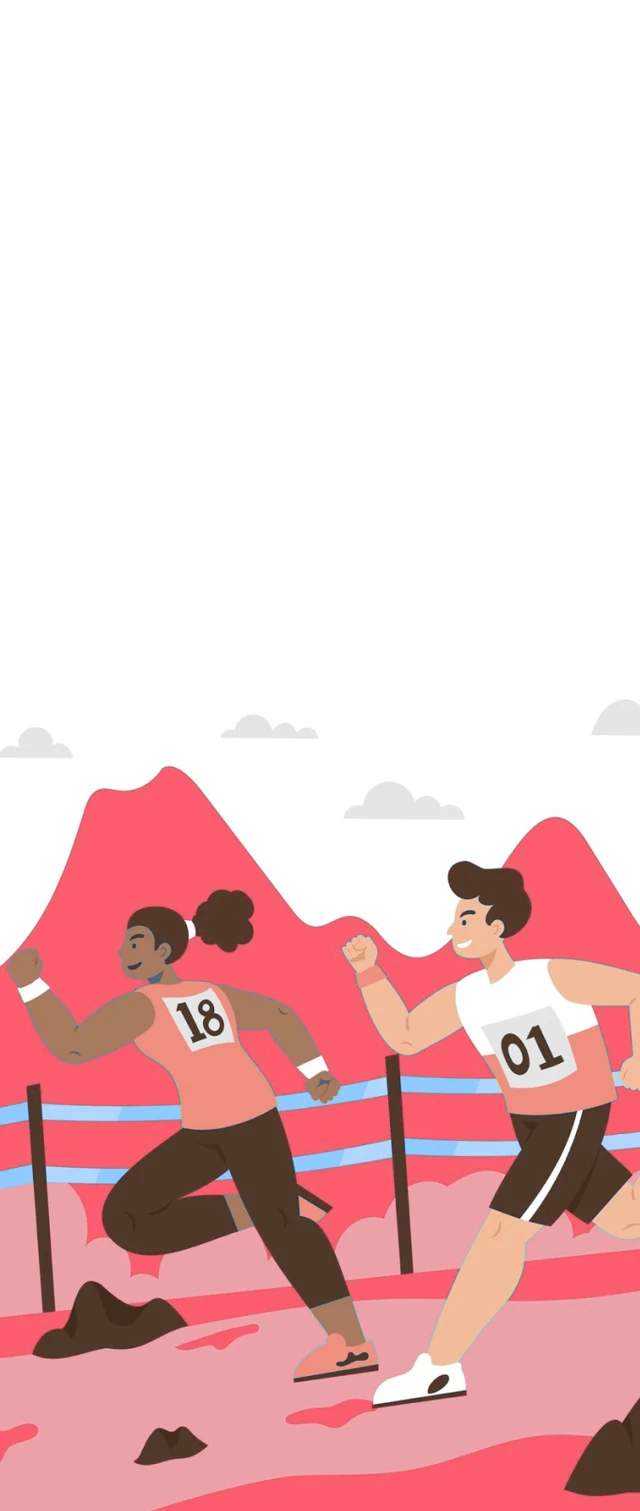
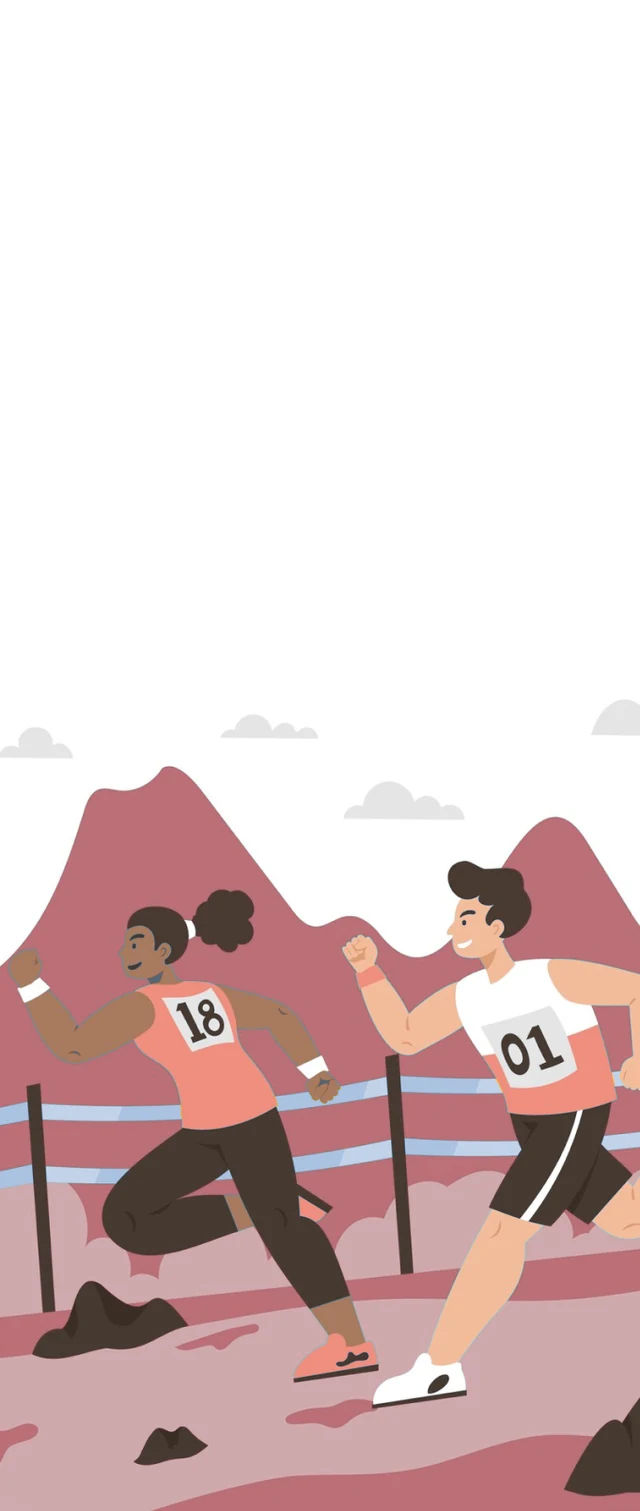
step-challenges: soften the format palette, drop the card numbers, rebuild the phone
Colour. The five cards read as five slabs next to each other, so the whole set
is pulled back to 70% of full brand strength and the pale fields fade earlier
and further, which keeps the hues and drops the volume. The marathon also lets
more of its original lightness through (0.45 -> 0.80) so its bushes stop reading
as a wall of red, and the streak keeps a little more saturation than the rest so
its large flat field stays mint rather than going sage.

Numbers. The 01-05 counters are gone from the cards, markup and CSS. The badge
icon and the title carry the card on their own, and the shorter copy block gives
every figure more clearance under the heading.

Phone. The new export is 329px wide against the old 200px, so the mockup grows
from 14.6rem to 16.4rem and still resolves - past about 20rem it would soften
again. The device itself is rebuilt: the screen is its own element inside the
bezel with a glass highlight across the top corner, the bezel radius is now the
screen radius plus the bezel width rather than an eyeballed pair, the volume and
sleep keys sit opposite each other, and a coral glow behind the device picks up
the app's own header so it sits in light rather than on a flat dark slab.

Changed region(s): [[0.0, 0.4977, 1.0, 1.0], [0.7812, 0.5288, 1.0, 0.7776]]

diff --git a/step-challenges.html b/step-challenges.html
@@ -310,7 +310,6 @@
     color: var(--sol-format-ink);
   }
   .sol-format__badge svg { width: 1.1rem; height: 1.1rem; }
-  .sol-format__no { margin-top: .15rem; color: var(--sol-format-ink); font-size: var(--vf-text-xs); font-weight: 800; letter-spacing: .1em; }
   .sol-format .vf-card-title { font-size: 1.15rem; line-height: 1.15; }
   .sol-format .vf-small { color: var(--vf-text); }
   /* the artwork fills the card and is anchored to its floor, so a card that
@@ -334,43 +333,77 @@
     .sol-format { max-width: 21rem; margin-inline: auto; }
   }
 
-  /* Product leaderboard: the app's own Leaderboard screen in a plain phone
-     mockup - a bezel, a pair of hardware keys and the screenshot, nothing more.
-     The screen is held to 13.5rem because the export is 400px wide, and any
-     bigger and the app UI goes soft. Mobile first. */
-  .sol-lb { display: grid; gap: var(--vf-space-5); justify-items: center; }
+  /* Product leaderboard: the app's own Leaderboard screen in a phone mockup -
+     bezel, hardware keys, a glass highlight across the top corner, and a coral
+     glow behind the device picked up from the app's own header so it sits in
+     light rather than on a flat dark slab. The screen is held to 16.4rem: the
+     export is 658px wide, so anything past ~20rem starts to soften on a retina
+     screen. Mobile first. */
+  .sol-lb { position: relative; display: grid; gap: var(--vf-space-5); justify-items: center; }
+  .sol-lb::before {
+    position: absolute;
+    z-index: 0;
+    top: 2%;
+    left: 50%;
+    width: min(150%, 24rem);
+    aspect-ratio: 1;
+    border-radius: 50%;
+    background: radial-gradient(circle, rgba(241,81,98,.34) 0%, rgba(241,81,98,.1) 42%, transparent 68%);
+    pointer-events: none;
+    content: '';
+    transform: translateX(-50%);
+  }
+  .sol-lb > * { position: relative; z-index: 1; }
   .sol-lb__device {
     position: relative;
-    width: min(100%, 14.6rem);
-    padding: .5rem;
-    border-radius: 2.35rem;
-    background: linear-gradient(145deg, #4B5361 0%, #242A33 28%, #10141A 72%, #313945 100%);
-    box-shadow: 0 0 0 1px rgba(255,255,255,.14), 0 0 0 2px rgba(0,0,0,.35),
-      0 34px 76px rgba(0,0,0,.58), inset 0 1px 1px rgba(255,255,255,.24);
+    width: min(100%, 16.4rem);
+    /* bezel width; the screen radius below is this much inside the shell's */
+    padding: .45rem;
+    border-radius: 2.7rem;
+    background: linear-gradient(158deg, #59616E 0%, #262C35 18%, #12161C 56%, #0B0E13 80%, #39414D 100%);
+    box-shadow:
+      0 0 0 1px rgba(255,255,255,.16),
+      0 2px 4px rgba(0,0,0,.4),
+      0 30px 60px -18px rgba(0,0,0,.75),
+      inset 0 1px 1px rgba(255,255,255,.3);
   }
-  /* Subtle hardware controls keep the silhouette recognisably phone-like: the
-     volume pair on the left, and the sleep key thrown to the right edge with a
-     box-shadow rather than a third element. */
+  /* Hardware keys: the volume pair on the left, the second of them thrown down
+     by a box-shadow, and the sleep key opposite on the right. */
   .sol-lb__device::before,
   .sol-lb__device::after {
     position: absolute;
-    left: -.18rem;
-    width: .2rem;
-    border-radius: .2rem 0 0 .2rem;
-    background: linear-gradient(#3D4551, #171C23);
+    width: .17rem;
+    background: linear-gradient(#4B5462, #12161C);
     content: '';
   }
-  .sol-lb__device::before { top: 5.4rem; height: 2.6rem; }
-  .sol-lb__device::after { top: 8.6rem; height: 1.6rem; box-shadow: 14.76rem -1.4rem 0 #202630; }
-  .sol-lb__shot {
+  .sol-lb__device::before {
+    top: 5.5rem;
+    left: -.15rem;
+    height: 1.6rem;
+    border-radius: .17rem 0 0 .17rem;
+    box-shadow: 0 2.05rem 0 #1A1F27;
+  }
+  .sol-lb__device::after {
+    top: 6.3rem;
+    right: -.15rem;
+    height: 2.6rem;
+    border-radius: 0 .17rem .17rem 0;
+  }
+  .sol-lb__screen {
     position: relative;
-    z-index: 1;
-    display: block;
-    width: 100%;
-    height: auto;
-    border-radius: 1.95rem;
+    overflow: hidden;
+    border-radius: 2.25rem;
     background: var(--vf-canvas);
-    box-shadow: inset 0 0 0 1px rgba(255,255,255,.1);
+    box-shadow: inset 0 0 0 1px rgba(255,255,255,.12);
+  }
+  .sol-lb__shot { display: block; width: 100%; height: auto; }
+  /* one soft diagonal across the top corner, the way glass catches a room */
+  .sol-lb__screen::after {
+    position: absolute;
+    inset: 0;
+    background: linear-gradient(148deg, rgba(255,255,255,.2) 0%, rgba(255,255,255,.06) 16%, transparent 32%);
+    pointer-events: none;
+    content: '';
   }
 
   /* Keep the integrity chapter compact on wider screens. The phone remains
@@ -532,7 +565,6 @@
             <svg viewBox="0 0 24 24" fill="none" stroke="currentColor" stroke-width="1.7"
                  stroke-linecap="round" stroke-linejoin="round" focusable="false"><path d="M14.5 4.6a1.7 1.7 0 1 0 0-.01"/><path d="M8 20.5l3-4 3.2-1.6-1.2-4.4-3.5 2.2-1.4 3"/><path d="M13 10.5l3.6 1.5 1.6 3.4"/><path d="M13.9 14.9l1.1 5.6"/></svg>
           </span>
-          <span class="sol-format__no">01</span>
           <h3 class="vf-card-title">Race</h3>
           <p class="vf-small">Spark a short burst</p>
           <span class="sol-format__art">
@@ -544,7 +576,6 @@
             <svg viewBox="0 0 24 24" fill="none" stroke="currentColor" stroke-width="1.7"
                  stroke-linecap="round" stroke-linejoin="round" focusable="false"><path d="M12 21c3.6 0 6.4-2.6 6.4-6 0-4.4-4.6-6.6-4.6-11-2.6 1.6-4.4 4-4.4 6.6 0 1.4.5 2.3.5 3.2 0 1.1-.9 2-2 2-.9 0-1.6-.5-2-1.2A7 7 0 0 0 5.6 15c0 3.4 2.8 6 6.4 6z"/></svg>
           </span>
-          <span class="sol-format__no">02</span>
           <h3 class="vf-card-title">Streak</h3>
           <p class="vf-small">Build daily consistency</p>
           <span class="sol-format__art">
@@ -556,7 +587,6 @@
             <svg viewBox="0 0 24 24" fill="none" stroke="currentColor" stroke-width="1.7"
                  stroke-linecap="round" stroke-linejoin="round" focusable="false"><path d="M12 21s7-6.4 7-11.4A7 7 0 0 0 5 9.6C5 14.6 12 21 12 21z"/><circle cx="12" cy="9.6" r="2.6"/></svg>
           </span>
-          <span class="sol-format__no">03</span>
           <h3 class="vf-card-title">Journey</h3>
           <p class="vf-small">Make progress visual</p>
           <span class="sol-format__art">
@@ -568,7 +598,6 @@
             <svg viewBox="0 0 24 24" fill="none" stroke="currentColor" stroke-width="1.7"
                  stroke-linecap="round" stroke-linejoin="round" focusable="false"><circle cx="12" cy="15" r="6"/><path d="M8.6 9.4 6 3h4l2 3.6L14 3h4l-2.6 6.4"/></svg>
           </span>
-          <span class="sol-format__no">04</span>
           <h3 class="vf-card-title">E-Marathon</h3>
           <p class="vf-small">Rally around an event</p>
           <span class="sol-format__art">
@@ -580,7 +609,6 @@
             <svg viewBox="0 0 24 24" fill="none" stroke="currentColor" stroke-width="1.7"
                  stroke-linecap="round" stroke-linejoin="round" focusable="false"><rect x="3.5" y="3.5" width="8" height="8" rx="2.4"/><rect x="12.5" y="3.5" width="8" height="8" rx="2.4"/><rect x="3.5" y="12.5" width="8" height="8" rx="2.4"/><rect x="12.5" y="12.5" width="8" height="8" rx="2.4"/></svg>
           </span>
-          <span class="sol-format__no">05</span>
           <h3 class="vf-card-title">Custom multi-week</h3>
           <p class="vf-small">Movement, mindfulness, hydration and more</p>
           <span class="sol-format__art">
@@ -657,9 +685,11 @@
       </div>
       <div class="sol-lb">
           <div class="sol-lb__device">
+            <div class="sol-lb__screen">
             <img class="sol-lb__shot" src="/assets/app-leaderboard.png"
                  alt="The Vantage Fit app leaderboard: a weekly ranking of colleagues by score, with the viewer's own rank and score above it."
-                 width="400" height="934" loading="lazy" decoding="async">
+                 width="658" height="1540" loading="lazy" decoding="async">
+            </div>
           </div>
           <p class="vf-meta sol-lb__note">The leaderboard employees see in the Vantage Fit app.</p>
       </div>
